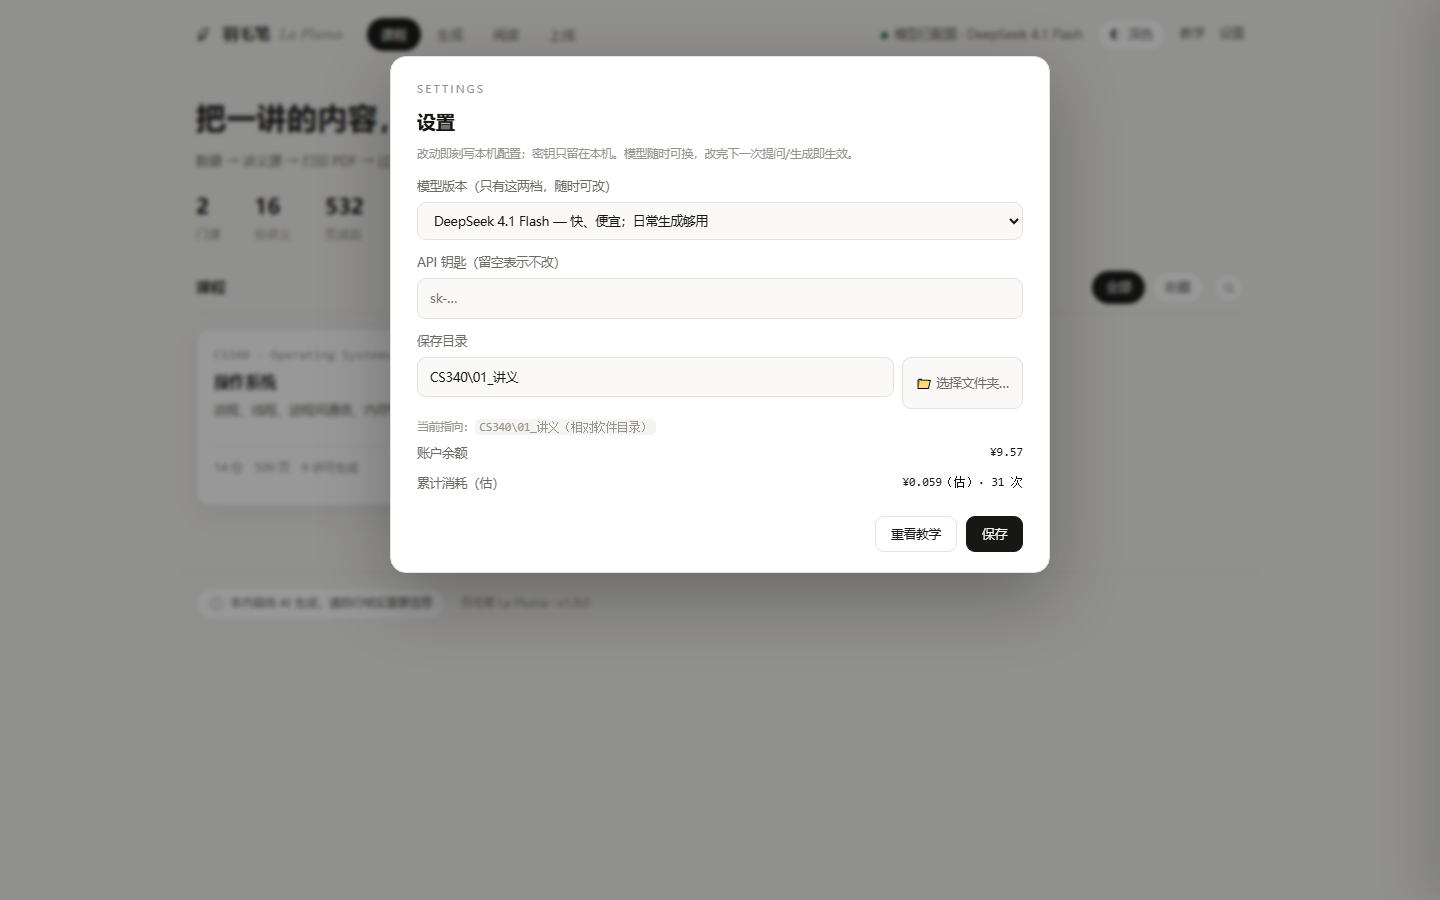
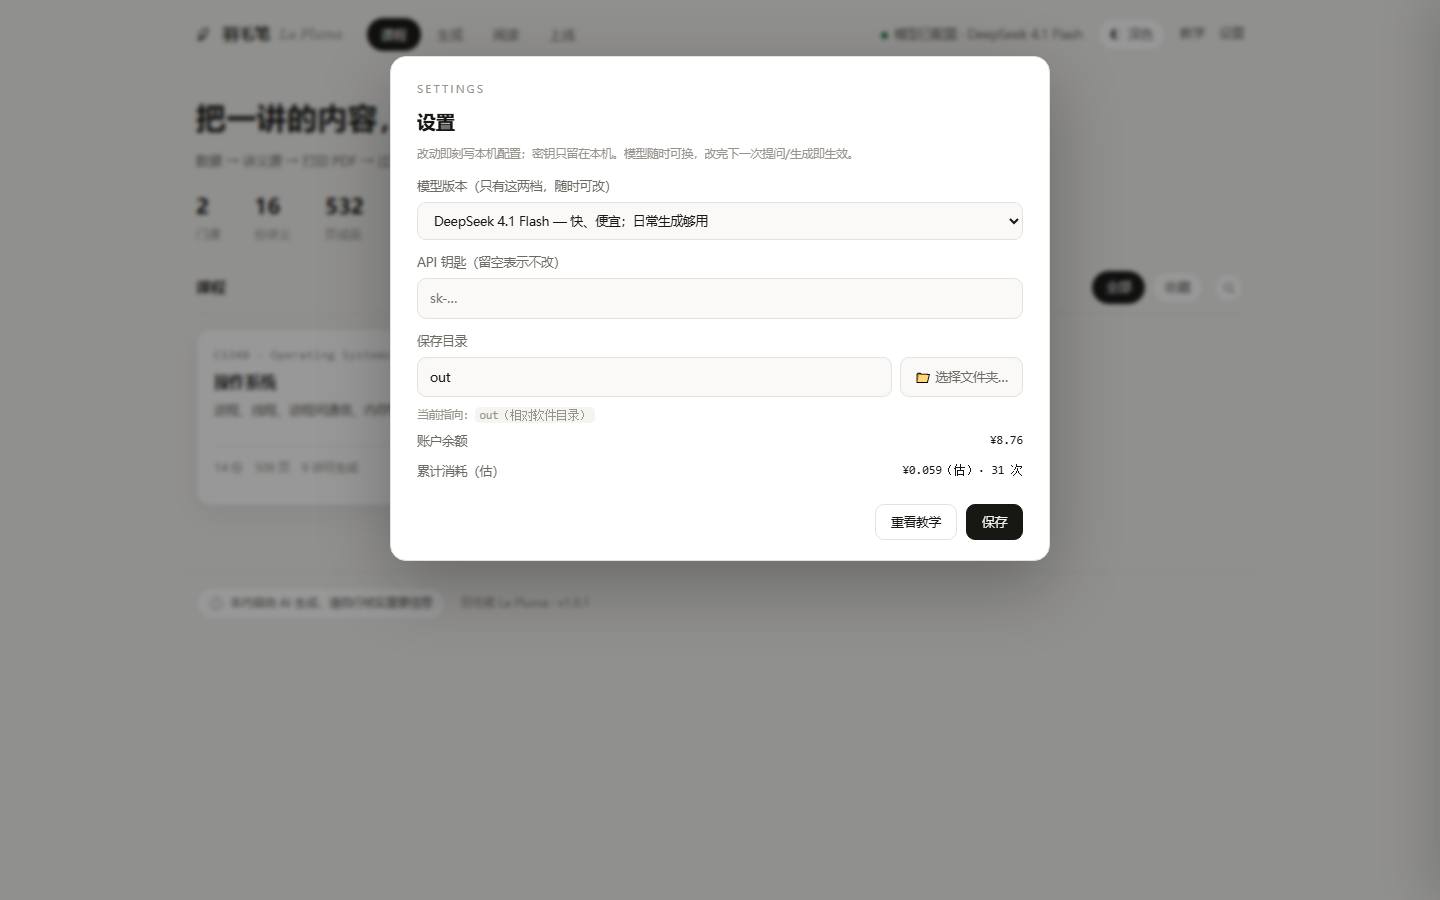
fix(ui): 保存目录按钮与输入框齐平；默认目录改 out，界面不再出现真实课件名

diff --git a/ui/index.html b/ui/index.html
@@ -189,11 +189,15 @@ nav a.on{background:var(--ink);color:var(--bg)}
      border-radius:9px;padding:8px 11px;font-family:Consolas,monospace;font-size:11.5px;color:var(--sub)}
 /* 2026-11-17：<code> 自带的 UA 样式是 font-family:monospace（= Courier New），会把 .fld 的 Consolas 盖掉 */
 .fld code{font-family:inherit;font-size:inherit}
-/* 2026-11-17：保存目录「选择文件夹」——向导第 3 步与设置页共用同一套观感 */
-.dirline{display:flex;gap:8px;align-items:stretch}
-.dirline input{flex:1;min-width:0}
-.pickbtn{white-space:nowrap;border:1px solid var(--line);background:var(--card2);border-radius:9px;padding:0 13px;
-         font-size:12.5px;color:var(--sub);display:inline-flex;align-items:center;gap:6px;transition:.16s;cursor:pointer}
+/* 2026-11-17：保存目录「选择文件夹」——向导第 3 步与设置页共用同一套观感。
+   2026-11-17 修：原来用 flex + align-items:stretch，按钮被自己的 52px 高撑歪（输入框只有 40px），
+   现改成 grid 两列 + 两边显式同高，观感与输入框齐平。 */
+.dirline{display:grid;grid-template-columns:1fr auto;gap:8px;align-items:center;margin:0 0 2px}
+.dlg .dirline input[type=text]{margin:0}   /* 权重要比 .dlg input[type=text] 高：它自带 margin-bottom:12px，会把按钮挤低 6px */
+.dirline input{width:100%;min-width:0}
+.pickbtn{height:40px;padding:0 14px;border:1px solid var(--line);background:var(--card2);border-radius:9px;
+         font-size:12.5px;line-height:1;color:var(--sub);display:inline-flex;align-items:center;justify-content:center;
+         gap:6px;white-space:nowrap;transition:.16s;cursor:pointer}
 .pickbtn:hover{border-color:var(--ink);color:var(--ink)}
 .pickbtn.busy{opacity:.55;pointer-events:none}
 .pickfine{font-size:11.5px;color:var(--faint);margin:8px 0 0;line-height:1.7}
@@ -474,7 +478,7 @@ footer{max-width:1080px;margin:26px auto 0;padding:0 16px;display:flex;align-ite
           <div class="opt" data-mode="repo"><b>推送到仓库</b><small>本仓提交即推送</small></div>
         </div>
         <div class="fld pick" id="dirPick" title="点击选择保存目录（在这台电脑上弹系统对话框）">
-          <code id="outPath">CS340/01_讲义</code><span id="dirHint" style="font-size:11.5px;color:var(--faint)">保存目录 · 点击选择</span></div>
+          <code id="outPath">out</code><span id="dirHint" style="font-size:11.5px;color:var(--faint)">保存目录 · 点击选择</span></div>
         <p class="hint" id="dirFix" style="display:none;color:var(--red);border:0">保存目录在配置里是乱码（出现过 ?），已临时退回默认目录；请到「设置」里重填。</p>
         <h3 style="margin-top:16px">成品形态</h3>
         <p class="hint">单本＝一讲一份 PDF（默认）；合订本＝全部讲合成一本，去掉各讲自带的封面与目录。</p>
@@ -1415,7 +1419,7 @@ async function loadPdfjs(){
   return pdfjs;
 }
 async function openReader(rel, name, code, goPage){
-  RD.rel = rel; RD.name = name || rel.split('/').pop(); RD.code = code || RD.code || 'CS340';
+  RD.rel = rel; RD.name = name || rel.split('/').pop(); RD.code = code || RD.code || B.default || 'DEMO';
   RD.page = goPage || 1; RD.zoom = 1;
   $('#rTitle').textContent = RD.name;
   $('#rSub').textContent = rel;
@@ -1924,10 +1928,10 @@ document.addEventListener('keydown', e => {
   const mc = location.search.match(/chat=([A-Za-z0-9_-]+)/);
   if(mc) setTimeout(()=>{ const c=(B.courses||[]).find(x=>x.code===mc[1]); if(c) openChat(c); }, 500);
   const mp = sp.get('pdf');
-  if(mp) setTimeout(()=>openReader(mp, mp.split('/').pop(), sp.get('code')||'CS340', +sp.get('to')||1), 400);
+  if(mp) setTimeout(()=>openReader(mp, mp.split('/').pop(), sp.get('code')||B.default||'DEMO', +sp.get('to')||1), 400);
   // 截图/调试用：?note=1 打开会话、全选消息并弹出笔记窗
   if(sp.get('note')) setTimeout(async()=>{
-    const c = (B.courses||[]).find(x=>x.code === (sp.get('note')==='1' ? 'CS340' : sp.get('note')));
+    const c = (B.courses||[]).find(x=>x.code === (sp.get('note')==='1' ? (B.default||'DEMO') : sp.get('note')));
     if(!c) return;
     await openChat(c);
     CHAT.sel = new Set(CHAT.messages.map((_,i)=>i)); renderChat(); $('#btnNote').click();

diff --git a/ui/server.py b/ui/server.py
@@ -233,7 +233,9 @@ def dep_state() -> dict:
 
 def load_cfg():
     cfg = _read_json(CFG_PATH)
-    default_dir = os.path.join(DEFAULT_COURSE, "01_讲义")
+    # 2026-11-17 用户定：「删除 CS340 的字眼，那是课件」——真实课件名不该出现在界面上（截图、默认值）。
+    #   默认保存目录改成中性的 out\（软件目录下），生成物仍然写在 <课程>\01_讲义，这里只是多复制一份。
+    default_dir = "out"
     out = {
         "provider": cfg.get("provider", "DeepSeek"),
         "base_url": cfg.get("base_url", "https://api.deepseek.com"),
@@ -254,11 +256,16 @@ def load_cfg():
     #   旧逻辑直接拿 normpath 的第一段当相对目录首段，`F:\某处` 被当成 `F:` 去 ROOT 下找 → 永远
     #   判不存在 → 退回默认，于是「选了目录 / 填了绝对路径」都不生效。绝对路径只看它自己存不存在。
     _sd = out["save_dir"]
+    # 旧默认值（<当前默认课>/01_讲义）视为未定制，直接换成 out；用户自己填的绝对路径不动
+    if os.path.normcase(os.path.normpath(_sd)) == os.path.normcase(os.path.normpath(os.path.join(DEFAULT_COURSE, "01_讲义"))):
+        out["save_dir"] = default_dir
+        _sd = default_dir
     if os.path.isabs(_sd):
         if not os.path.isdir(_sd):
             out["save_dir"] = default_dir
             out["save_dir_fixed"] = True
-    else:
+    elif os.path.normcase(os.path.normpath(_sd)) != os.path.normcase(os.path.normpath(default_dir)):
+        # out\ 是默认值，允许暂不存在（_copy_out 会建）；其它相对目录不存在就退回默认
         _first = os.path.normpath(_sd).split(os.sep)[0]
         if _first and _first not in (".", "..") and not os.path.isdir(paths.data_or_res(_first)):
             out["save_dir"] = default_dir

diff --git a/CHANGELOG.md b/CHANGELOG.md
@@ -7,8 +7,10 @@
 <!-- 摘要：保存目录能选文件夹、不再把本机路径印在界面上；标签页有羽毛图标；一键启动会查 Python 版本并自动装依赖 -->
 
 - **保存目录能选文件夹**：向导第 3 步与设置页的「保存目录」右侧加了「📁 选择文件夹…」，弹这台电脑的系统对话框，**打开位置就是软件所在目录**；相对路径照旧以软件目录为根
-- **默认值不再露本机路径**：输入框只显示相对路径，下面一行写「当前指向：CS340\01_讲义（相对软件目录）」；选了绝对路径才显示绝对路径
-- **填绝对路径真的生效了（修 bug）**：旧逻辑把 `F:\某处` 的首段当相对目录去找，永远判「不存在」→ 静默退回默认目录，于是「选了也白选」。现在绝对路径只看它自己存不存在。实测：写到 `%TEMP%\pl-abs-out`，生成 2.3 s，目标目录出现 1,304,263 字节 PDF
+- **默认保存目录改成 `out`**：以前默认是「当前课程的 01_讲义」，界面就会把真实课件名（CS340）印在墙上。现在默认 `out`（软件目录下），生成物仍写在 `<课程>\01_讲义`，这里只多复制一份；旧的「<默认课>/01_讲义」配置视为未定制，自动换成 `out`
+- **默认值不再露本机路径**：输入框只显示相对路径，下面一行写「当前指向：out（相对软件目录）」；选了绝对路径才显示绝对路径
+- **按钮不再歪**：第一版用 flex + stretch，按钮被自己 52px 的高撑到比输入框（40px）高，而且被 `.dlg input` 的 `margin-bottom:12px` 挤低 6px。改成 grid 两列 + 两边显式 40px，实测 top 差 0.08px、高度差 0.1px
+- **填绝对路径真的生效了（修 bug）**：旧逻辑把 `F:\某处` 的首段当相对目录去找，永远判「不存在」→ 静默退回默认目录，于是「选了也白选」。现在绝对路径只看它自己存不存在。实测：写到 `%TEMP%\pl-abs-out`，生成 2.3 s，目标目录出现 1,304,263 字节 PDF；默认 `out` 也实测过（2.2 s → `out\D01_…pdf` 1,304,263 字节）
 - **标签页图标**：`/favicon.ico` 以前回 204（空），现在给 `assets\lapluma.ico`；`index.html` / `access.html` 的 `<link rel="icon" href="data:,">` 换成真图标。`assets` 已加进打包 datas，exe 里也能用
 - **向导会自检依赖**：`/api/bootstrap` 新增 `deps`（Python 版本 / pymupdf / 是否 exe）。源码版缺 `pymupdf` 时向导顶部出红条，指向 `docs\使用\07-装依赖-用CMD.md`；exe 里不提示
 - **一键启动三件事**：查 Python（要 3.12，低于 3.10 拦下）→ 缺 `pymupdf` 自动装 → 起界面；装不上时直接打印三步 CMD 命令。新增 `一键启动.bat`（双击 `.ps1` 默认会被记事本打开，这是「双击打不开」的一个真因）；重定向日志时强制 UTF-8，中文不再乱码
